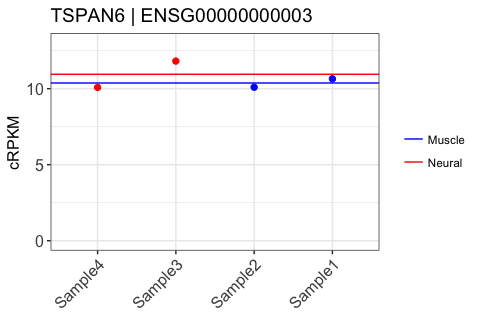
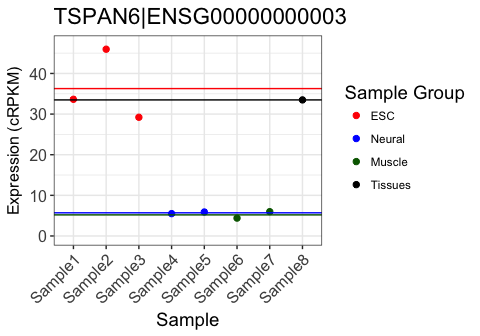
Updated README

diff --git a/README.md b/README.md
@@ -1,25 +1,17 @@
 <!-- README.md is generated from README.Rmd. Please edit that file -->
-[![Build
-Status](https://travis-ci.org/kcha/psiplot.svg?branch=master)](https://travis-ci.org/kcha/psiplot)
+[![Build Status](https://travis-ci.org/kcha/psiplot.svg?branch=master)](https://travis-ci.org/kcha/psiplot)
 
 psiplot
 =======
 
-psiplot is an R package for generating plots of percent spliced-in (PSI)
-values of alternatively-spliced exons that were computed by
-[VAST-TOOLS](https://github.com/vastgroup/vast-tools), an RNA-Seq
-pipeline for alternative splicing analysis. The plots are generated
-using `ggplot2`.
+psiplot is an R package for generating plots of percent spliced-in (PSI) values of alternatively-spliced exons that were computed by [VAST-TOOLS](https://github.com/vastgroup/vast-tools), an RNA-Seq pipeline for alternative splicing analysis. The plots are generated using `ggplot2`.
 
-For a demo of psiplot, take a look at the companion Shiny app:
-<http://kcha.shinyapps.io/psiplotter-app>.
+For a demo of psiplot, take a look at the companion Shiny app: <http://kcha.shinyapps.io/psiplotter-app>.
 
 Installation
 ------------
 
-See [Releases](https://github.com/kcha/psiplot/releases) for the latest
-stable release or get the most up-to-date development version via
-devtools:
+See [Releases](https://github.com/kcha/psiplot/releases) for the latest stable release or get the most up-to-date development version via devtools:
 
 ``` r
 if (!require("devtools")) install.packages("devtools")
@@ -31,9 +23,7 @@ Usage
 
 ### Input
 
-psiplot takes as input the PSI and/or cRPKM results generated by
-VAST-TOOLS (e.g. after running `vast-tools combine` or
-`vast-tools diff`). For example,
+psiplot takes as input the PSI and/or cRPKM results generated by VAST-TOOLS (e.g. after running `vast-tools combine` or `vast-tools diff`). For example,
 
 ``` r
 psi <- read.table("INCLUSION_LEVELS_FULL-Mmu53.tab", header = TRUE, sep = "\t",
@@ -42,13 +32,11 @@ crpkm <- read.table("cRPKM-Mmu53.tab", header = TRUE, sep = "\t",
                     stringsAsFactors = FALSE)
 ```
 
-This README uses the provided sample datasets, `psi` and `crpkm`, as
-example input data.
+This README uses the provided sample datasets, `psi`, `crpkm` and `crpkm_counts`, as example input data.
 
 ### Plotting
 
-Events can be plotted individually as a scatterplot (a.k.a “psiplots”)
-or collectively as a heatmap.
+Events can be plotted individually as a scatterplot (a.k.a "psiplots") or collectively as a heatmap. A function to produce psiplots for multiple events is also provided.
 
 #### Individual events
 
@@ -58,41 +46,47 @@ The function `plot_event()` generates a plot of a single event:
 library(psiplot)
 
 # Plot an event using provided sample dataset
-plot_event(psi[1,], config = config)
+plot_event(psi[1,], config = config, subg = FALSE)
 ```
 
 ![](man/figures/plot_event-1.png)
 
-Alternatively, to plot an event by gene name (for example, TSPAN6):
+Alternatively, to plot an event by gene name (for example, MTA1):
 
 ``` r
-plot_event(psi[psi$GENE == "TSPAN6",], config = config)
+plot_event(psi[psi$GENE == "MTA1",], config = config, subg = FALSE)
 ```
 
 <br />
 
-In addition, cRPKM expression values generated by vast-tools can also be
-plotted in a similar manner using the function `plot_expr()`:
+#### Multi-event PSI plots
+
+Several events can be plotted together with the function `plot_multievent()`. This allows users to compare the inclusion patterns of small groups of events:
 
 ``` r
-plot_expr(crpkm[1,], config = config)
+plot_multievent(psi[c(1,2),], config = config, subg = FALSE, event_col = c("black", "red"))
+```
+
+![](man/figures/plot_multievent-1.png)
+
+#### Plotting gene expression values
+
+In addition, cRPKM expression values generated by vast-tools can also be plotted in a similar manner using the function `plot_expr()`:
+
+``` r
+plot_expr(crpkm[1,], config = config, subg = FALSE)
 ```
 
 ![](man/figures/plot_expr-1.png)
 
-#### Multiple events
+#### Plotting heatmaps
 
-The function `plot_multi` generates a heatmap of multiple events using
-`geom_tile`. Alternatively, if you have the R package `pheatmap` or
-`gplots` installed, you can set `usepkgs = 'pheatmap'` or
-`usepkgs = 'gplots'` to generate a heatmap. By default, rows and columns
-will be ordered by hierarchical clustering. One benefit of using
-`pheatmap` or `gplots` is the ability to include group annotations from
-the config file:
+The function `plot_multi` generates a heatmap of multiple events using `geom_tile`. Alternatively, if you have the R package `pheatmap` or `gplots` installed, you can set `usepkgs = 'pheatmap'` or `usepkgs = 'gplots'` to generate a heatmap. By default, rows and columns will be ordered by hierarchical clustering. One benefit of using `pheatmap` or `gplots` is the ability to include group annotations from the config file:
 
 ``` r
 # example using pheatmap
-plot_multi(psi, config=config, usepkg = 'pheatmap')
+plot_multi(psi, config=config, usepkg = 'pheatmap', subg = FALSE)
+#> plot_multi() is under active development. Please report bugs or feedback to https://github.com/kcha/psiplot/issues.
 ```
 
 ![](man/figures/plot_multi-1.png)
@@ -115,14 +109,11 @@ plot_multi(psi, usepkg = "pheatmap")
 
 ### Customizing plots
 
-There are two ways to customize the plots: using a configuration file or
-using R arguments.
+There are two ways to customize the plots: using a configuration file or using R arguments.
 
 #### The `.config` file way
 
-In `vast-tools plot`, an optional config file can be used to customize
-the plots’ visual appearance. The same config file can be supplied here
-as well.
+In `vast-tools plot`, an optional config file can be used to customize the plots' visual appearance. The same config file can be supplied here as well.
 
 ``` r
 plot_event(psi[1,], config = "/path/to/config")
@@ -134,81 +125,86 @@ plot_multi(psi, config = cfg)
 plot_expr(crpkm[1,], config = cfg)
 ```
 
-The color and ordering of samples can be customized by supplying a plot
-configuration file. This file is tab-delimited and must be manually
-created. For example:
+The color and ordering of samples can be customized by supplying a plot configuration file. This file is tab-delimited and must be manually created. For example:
 
 ``` r
 # sample config data
 config
-#>   Order SampleName GroupName RColorCode
-#> 1     1    Sample4    Neural    #ff0000
-#> 2     2    Sample3    Neural        red
-#> 3     3    Sample2    Muscle       blue
-#> 4     4    Sample1    Muscle    #0000ff
+#> # A tibble: 8 x 5
+#>   Order SampleName SubgroupName GroupName RColorCode
+#>   <int> <chr>      <chr>        <chr>     <chr>     
+#> 1     8 Sample8    Subgroup5    Tissues   black     
+#> 2     1 Sample1    Subgroup1    ESC       red       
+#> 3     2 Sample2    Subgroup1    ESC       red       
+#> 4     3 Sample3    Subgroup2    ESC       red       
+#> 5     4 Sample4    Subgroup3    Neural    blue      
+#> 6     5 Sample5    Subgroup3    Neural    blue      
+#> 7     6 Sample6    Subgroup4    Muscle    darkgreen 
+#> 8     7 Sample7    Subgroup4    Muscle    darkgreen
 ```
 
 -   **Order**: The ordering of the samples from left to right.
--   **SampleName**: Name of the sample. MUST match sample name in input
-    table.
--   **GroupName**: Group name. Use for plotting the average PSI of
-    samples belonging to the same group (enable by setting
-    `groupmean=TRUE`)
+-   **SampleName**: Name of the sample. MUST match sample name in input table.
+-   **SubgroupName (Optional)**: Subgroup name. Use for plotting the average PSI of samples belonging to the same subgroup INSTEAD of the individual samples (disable by setting `subg=FALSE`, or using config files without this column). See \[Sample subgroups\] for more details.
+-   **GroupName**: Group name. Use for plotting the average PSI of samples belonging to the same group (enable by setting `groupmean=TRUE`).
 -   **RColorCode**: An R color specification:
-    1.  color name (as specified by `colors()`)
-    2.  hex color code (\#rrggbb)
+    1.  color name (as specified by `colors()`).
+    2.  hex color code (\#rrggbb).
 
 Tips:
 
--   The samples under SampleName MUST MATCH the names in the input
-    table. Only the samples listed in the config file will be
-    represented in the resulting plots. Other samples in the input table
-    but not in the config file will be ignored. This may be useful for
-    plotting only a subset of samples.
--   The column **Order** does not need to be in sorted order. Thus, you
-    can change the ordering of your samples by simply changing the order
-    number.
--   For `plot_multi`, specifying a config file will disable clustering
-    of samples and instead use the config order.
+-   The samples under SampleName MUST MATCH the names in the input table. Only the samples listed in the config file will be represented in the resulting plots. Other samples in the input table but not in the config file will be ignored. This may be useful for plotting only a subset of samples.
+-   The column **Order** does not need to be in sorted order. Thus, you can change the ordering of your samples by simply changing the order number.
+-   For `plot_multi`, specifying a config file will disable clustering of samples and instead use the config order.
+-   When a sample is mapped to multiple subgroups, it will only be included in the first one.
+-   When a subgroup is mapped to multiple groups, it will only be included in the first one.
+-   When a group is assigned to multiple colors, only the first color will be used.
 
 #### The R way
 
-The colors and other graphical parameters can also be configured in R
-via arguments. `plot_events()` and `plot_expr()` provides a limited set
-of arguments and can be used in conjunction with a config file. See
-`?plot_events` and `?plot_expr` for more details on the available
-options.
+The colors and other graphical parameters can also be configured in R via arguments. `plot_events()` and `plot_expr()` provides a limited set of arguments and can be used in conjunction with a config file. See `?plot_events` and `?plot_expr` for more details on the available options.
 
-For example, the following command uses the configuration settings, sets
-the point symbol, and restricts the y-axis to (20, 80):
+For example, the following command uses the configuration settings, sets the point symbol, and restricts the y-axis to (20, 80):
 
 ``` r
-plot_event(psi[1,], config = config, pch = 9, ylim = c(20, 80))
+plot_event(psi[1,], config = config, subg = FALSE, pch = 9, ylim = c(20, 80))
 ```
 
-Because the `plot_*` methods return ggplot2 objects, you can further
-customize the plots by appending additional aesthetics or themes (if the
-option is not supported within the method itself). Certain options may
-interfere or overwite those already set within the `plot_*` methods, so
-please use at your discretion. For example, to increase the text size of
-the legend:
+Because the `plot_*` methods return ggplot2 objects, you can further customize the plots by appending additional aesthetics or themes (if the option is not supported within the method itself). Certain options may interfere or overwite those already set within the `plot_*` methods, so please use at your discretion. For example, to increase the text size of the legend:
 
 ``` r
-plot_event(psi[1,], config = config) + theme(legend.text = element_text(size = 20))
+plot_event(psi[1,], config = config, subg = FALSE) + theme(legend.text = element_text(size = 20))
 ```
+
+### Options available for all plotting functions
+
+#### Filtering samples by quality score
+
+The `qual` argument can be used to indicate the minimum value of the first vast-tools quality score that a PSI value needs to have in order to be accepted. PSI values with lower quality scores will be coerced to NA.
+
+The possible values for this score are, from worse to better: `N`, `VLOW`, `LOW`, `OK`, and `SOK`. By default, the minimum quality accepted is `VLOW`. For more information on vast-tools quality scores, please see [the description of vast-tools output](https://github.com/vastgroup/vast-tools/blob/master/README.md#combine-output-format) (column 8).
+
+#### Subgrouping samples
+
+The `subg` argument allows pooling samples into subgroups if there is a **SubgroupName** column included in the supplied `config` file (see [Customizing plots](#customizing-plots)). The PSI of a subgroup is the mean of the PSIs of its individual samples, after filtering out the samples with quality score below the threshold indicated by `qual` (see \[Filter samples by quality score\]).
+
+``` r
+plot_event(psi[1,], config = config, subg = TRUE)
+```
+
+![](man/figures/plot_event_subg-1.png)
 
 Issues
 ------
 
-Please report all bugs and issues using the [issue
-tracker](https://github.com/kcha/psiplot/issues).
+Please report all bugs and issues using the [issue tracker](https://github.com/kcha/psiplot/issues).
 
 Related Projects
 ----------------
 
 -   [VAST-TOOLS](https://github.com/vastgroup/vast-tools)
--   [psiplotter-app](https://github.com/kcha/psiplotter-app): A
-    companion Shiny app for visualizing PSI plots based on this package
+-   [VastDB](http://vastdb.crg.eu): A database with PSI values computed with vast-tools in many tissues and cell types of several species.
+-   [psiplotter-app](https://github.com/kcha/psiplotter-app): A companion Shiny app for visualizing PSI plots based on this package
 
 Acknowledgements
 ----------------
@@ -220,10 +216,4 @@ Acknowledgements
 Citation
 --------
 
-Tapial, J., Ha, K.C.H., Sterne-Weiler, T., Gohr, A., Braunschweig, U.,
-Hermoso-Pulido, A., Quesnel-Vallières, M., Permanyer, J., Sodaei, R.,
-Marquez, Y., Cozzuto, L., Wang, X., Gómez-Velázquez, M., Rayón, M.,
-Manzanares, M., Ponomarenko, J., Blencowe, B.J., Irimia, M. (2017). An
-Alternative Splicing Atlas Reveals New Regulatory Programs and Genes
-Simultaneously Expressing Multiple Major Isoforms in Vertebrates. Genome
-Res, 27(10):1759-1768
+Tapial, J., Ha, K.C.H., Sterne-Weiler, T., Gohr, A., Braunschweig, U., Hermoso-Pulido, A., Quesnel-Vallières, M., Permanyer, J., Sodaei, R., Marquez, Y., Cozzuto, L., Wang, X., Gómez-Velázquez, M., Rayon, T., Manzanares, M., Ponomarenko, J., Blencowe, B.J., Irimia, M. (2017). An Alternative Splicing Atlas Reveals New Regulatory Programs and Genes Simultaneously Expressing Multiple Major Isoforms in Vertebrates. Genome Res, 27(10):1759-1768. PMID: [28855263](https://www.ncbi.nlm.nih.gov/pubmed/28855263)
